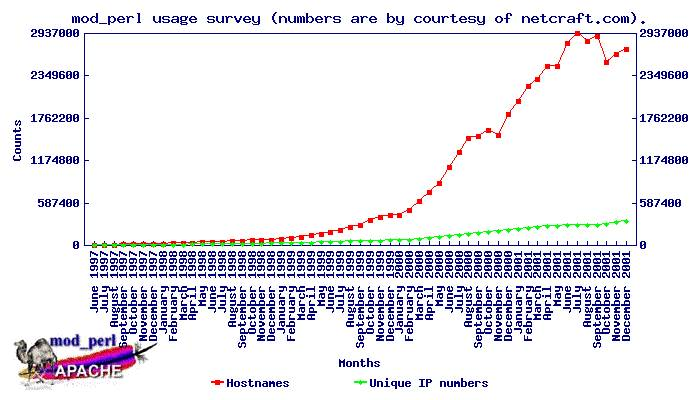
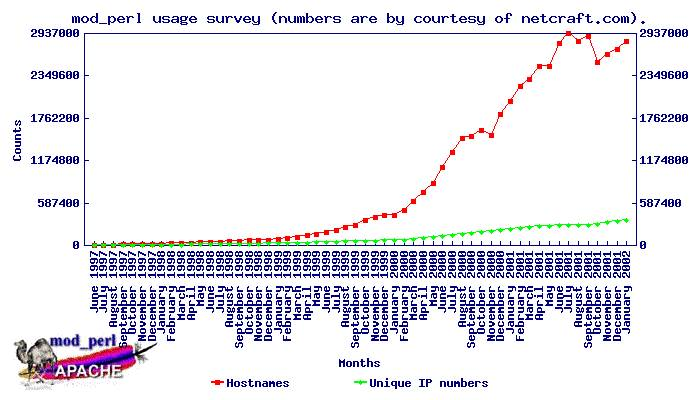
january 2002 stats
git-svn-id: https://svn.apache.org/repos/asf/perl/modperl/docs/trunk@65898 13f79535-47bb-0310-9956-ffa450edef68

Changed region(s): [[0.12, 0.06, 0.9, 0.87]]

diff --git a/src/stats/securityspace.html b/src/stats/securityspace.html
@@ -6,11 +6,11 @@
 <body bgcolor=#ffffff >
 
 SecuritySpace provides
-<a href="http://www.securityspace.com/s_survey/data/man.200112/apachemods.html">
+<a href="http://www.securityspace.com/s_survey/data/man.200201/apachemods.html">
 mod_perl usage report</a>. Make sure to click on the menu at the left
 to pick the latest month, since the link hardcodes the month. They
 also provide a <a
-href="http://www.securityspace.com/s_survey/data/man.200112/apachemods.html?mod=cGVybA==">page</a>
+href="http://www.securityspace.com/s_survey/data/man.200201/apachemods.html?mod=cGVybA==">page</a>
 similar to this one with statistics and a graph based on the data
 collected by <a
 href="http://www.securityspace.com/">www.securityspace.com</a>

diff --git a/src/stats/netcraft.html b/src/stats/netcraft.html
@@ -23,6 +23,7 @@ adjust the year/month if needed -->
 
 <table cellpadding=3 border=1>
 <tr><td>Survey</td><td>hostnames</td><td>unique ip addresses</td></tr>
+<tr><td> January 2002   </td><td>2819847</td><td>341458</td></tr>
 <tr><td> December 2001  </td><td>2720503</td><td>326545</td></tr>
 <tr><td> November 2001  </td><td>2651419</td><td>322595</td></tr>
 <tr><td> October 2001   </td><td>2540267</td><td>293633</td></tr>
